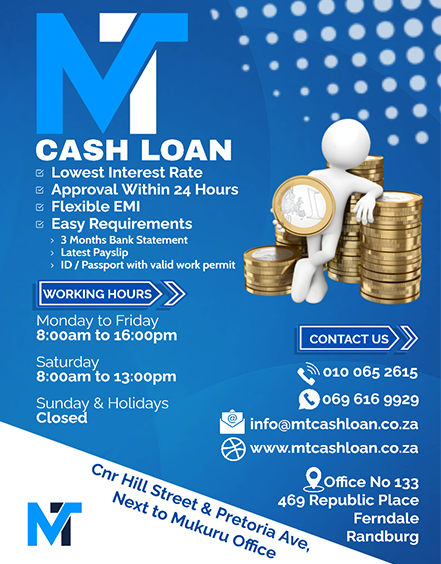
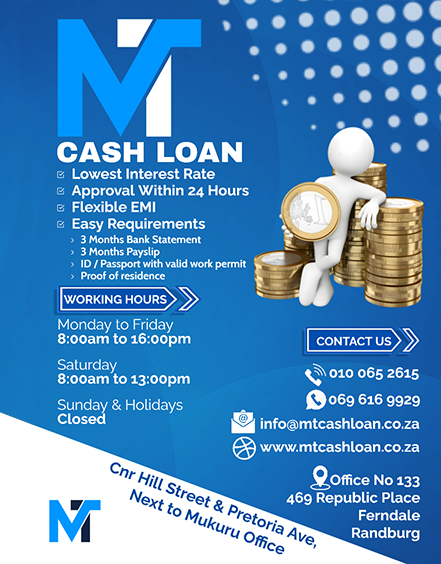
Web V4

diff --git a/index.html b/index.html
@@ -46,6 +46,9 @@
                             <div class="col-xl-2 col-lg-2 col-md-1">
                                 <div class="logo">
                                     <a href="index.html"><img src="assets/img/logo/logo.png" alt="mt logo" width="120"></a>
+									<div class="col-xl-9">
+										<font size="1" class="text-black-50">NCR-REGISTERED</font>
+									</div>
                                 </div>
                             </div>
                             <div class="col-xl-10 col-lg-10 col-md-10">
@@ -91,7 +94,7 @@
                             <p data-animation="fadeInLeft" data-delay=".2s">Achieve your financial goal</p>
                             <h1 data-animation="fadeInLeft" data-delay=".5s">Short-term personal loans and quick cash advances solutions</h1>
                             <!-- Hero Btn -->
-                            <a href="apply.html" class="btn hero-btn" data-animation="fadeInLeft" data-delay=".8s">Apply for Loan</a>
+                            <a href="contact.html" class="btn hero-btn" data-animation="fadeInLeft" data-delay=".8s">Get in touch</a>
                         </div>
                         <div class="hero__img">
                             <img src="assets/img/hero/hero_img.jpg" alt="">
@@ -105,7 +108,7 @@
                             <p data-animation="fadeInLeft" data-delay=".2s">Achieve your financial goal</p>
                             <h1 data-animation="fadeInLeft" data-delay=".5s">Small Business Loans For Daily Expenses.</h1>
                             <!-- Hero Btn -->
-                            <a href="apply.html" class="btn hero-btn" data-animation="fadeInLeft" data-delay=".8s">Apply for Loan</a>
+                            <a href="contact.html" class="btn hero-btn" data-animation="fadeInLeft" data-delay=".8s">Get in touch</a>
                         </div>
                         <div class="hero__img">
                             <img src="assets/img/hero/hero_img2.jpg" alt="">
@@ -172,7 +175,7 @@
                             </div>
                             <p>MT Cash Loan is a trusted and innovative financial services company specializing in short-term personal loans and quick cash advances. We provide fast, reliable, and transparent lending solutions to individuals facing urgent financial needs.</p>
                             <p>Our user-friendly application process make borrowing simple, secure, and hassle-free.</p>
-                            <a href="apply.html" class="btn">Apply for Loan</a>
+                            <a href="contact.html" class="btn">Get in touch</a>
                         </div>
                     </div>
                     <div class="col-lg-6 col-md-12">
@@ -203,7 +206,7 @@
                     </div>
                 </div>
                 <div class="row">
-                    <div class="col-lg-3 col-md-6 col-sm-6">
+                    <div class="col-lg-4 col-md-6 col-sm-6">
                         <div class="single-cat text-center mb-50">
                             <div class="cat-icon">
                                 <span class="flaticon-work"></span>
@@ -214,18 +217,8 @@
                             </div>
                         </div>
                     </div>
-                    <div class="col-lg-3 col-md-6 col-sm-6">
-                        <div class="single-cat text-center mb-50">
-                            <div class="cat-icon">
-                                <span class="flaticon-money"></span>
-                            </div>
-                            <div class="cat-cap">
-                                <h5><a href="services.html">Payday Advances</a></h5>
-                                <p>Short-term loans to bridge the gap until the next paycheck</p>
-                            </div>
-                        </div>
-                    </div>
-                    <div class="col-lg-3 col-md-6 col-sm-6">
+                    
+                    <div class="col-lg-4 col-md-6 col-sm-6">
                         <div class="single-cat text-center mb-50">
                             <div class="cat-icon">
                                 <span class="flaticon-loan-1"></span>
@@ -236,7 +229,7 @@
                             </div>
                         </div>
                     </div>
-                    <div class="col-lg-3 col-md-6 col-sm-6">
+                    <div class="col-lg-4 col-md-6 col-sm-6">
                         <div class="single-cat text-center mb-50">
                             <div class="cat-icon">
                                 <span class="flaticon-loan"></span>
@@ -260,7 +253,7 @@
                         <div class="support-location-img mb-50">
                             <img src="assets/img/gallery/single2.jpg" alt="">
                             <div class="support-img-cap">
-                                <span>Since 2022</span>
+                                <span>Since 2010</span>
                             </div>
                         </div>
                     </div>
@@ -306,31 +299,30 @@
                         <!-- Section Tittle -->
                         <div class="section-tittle section-tittle2 text-center mb-45">
                             <span>Apply Easy</span>
-                            <h2>Easy Application Process With Just Three Requirements </h2>
+                            <h2>Easy Application Process With Just Four Requirements </h2>
                         </div>
                     </div>
                 </div>
-                <div class="row justify-content-center">
-                    <div class="col-lg-9 col-xl-10">
-                        <!--Hero form -->
-                        <form action="#" class="search-box">
-                            <div class="input-form">
-                                <input type="text" placeholder="3 Months Bank Statement">
+                <div class="row">
+                        <div class="col-xl-3">
+                               <h6 class="text-light">3 Months Bank Statement </h6>
+                        </div>
+                            <div class="col-xl-3">
+                               <h6  class="text-light">ID/Passport with valid permit </h6>
                             </div>
-                            <div class="input-form">
-                                <input type="text" placeholder="ID/Passport with permit">
+                            <div class="col-xl-3">
+                                <h6  class="text-light">3 Months Payslip </h6>
                             </div>
-                            <div class="input-form">
-                                <input type="text" placeholder="Latest Payslip">
-                            </div>
-                            <div class="search-form">
-                                <a href="apply.html">Apply for Loan</a>
+							  <div class="col-xl-3">
+                                <h6  class="text-light">Proof of Residence </h6>
+						    </div>
+                            <div class="btn col-12">
+                                <a href="contact.html">Get in touch</a>
                             </div>	
-                        </form>	
                     </div>
                 </div>
             </div>
-        </div>
+        
         <!-- Application Area End -->
 
     </main>

diff --git a/about.html b/about.html
@@ -47,6 +47,9 @@
                             <div class="col-xl-2 col-lg-2 col-md-1">
                                 <div class="logo">
                                     <a href="index.html"><img src="assets/img/logo/logo.png" alt="mt logo" width="120"></a>
+									<div class="col-xl-9">
+										<font size="1" class="text-black-50">NCR-REGISTERED</font>
+									</div>
                                 </div>
                             </div>
                             <div class="col-xl-10 col-lg-10 col-md-10">
@@ -109,7 +112,7 @@
                             </div>
                             <p>MT Cash Loan is a trusted and innovative financial services company specializing in short-term personal loans and quick cash advances. We provide fast, reliable, and transparent lending solutions to individuals facing urgent financial needs.</p>
                             <p>Our user-friendly application process make borrowing simple, secure, and hassle-free.</p>
-                            <a href="apply.html" class="btn">Apply for Loan</a>
+                            <a href="contact.html" class="btn">Get in touch</a>
                         </div>
                     </div>
                     <div class="col-lg-6 col-md-12">
@@ -134,31 +137,29 @@
                         <!-- Section Tittle -->
                         <div class="section-tittle section-tittle2 text-center mb-45">
                             <span>Apply Easy</span>
-                            <h2>Easy Application Process With Just Three Requirements </h2>
+                            <h2>Easy Application Process With Just Four Requirements </h2>
                         </div>
                     </div>
                 </div>
-                <div class="row justify-content-center">
-                    <div class="col-lg-9 col-xl-10">
-                        <!--Hero form -->
-                        <form action="#" class="search-box">
-                            <div class="input-form">
-                                <input type="text" placeholder="3 Months Bank Statement">
+                <div class="row">
+                        <div class="col-xl-3">
+                               <h6 class="text-light">3 Months Bank Statement </h6>
+                        </div>
+                            <div class="col-xl-3">
+                               <h6  class="text-light">ID/Passport with valid permit </h6>
                             </div>
-                            <div class="input-form">
-                                <input type="text" placeholder="ID/Passport with permit">
+                            <div class="col-xl-3">
+                                <h6  class="text-light">3 Months Payslip </h6>
                             </div>
-                            <div class="input-form">
-                                <input type="text" placeholder="Latest Payslip">
-                            </div>
-                            <div class="search-form">
-                                <a href="apply.html">Apply for Loan</a>
+							  <div class="col-xl-3">
+                                <h6  class="text-light">Proof of Residence </h6>
+						    </div>
+                            <div class="btn col-12">
+                                <a href="contact.html">Get in touch</a>
                             </div>	
-                        </form>	
                     </div>
                 </div>
             </div>
-        </div>
         <!-- Application Area End -->
 
     </main>

diff --git a/services.html b/services.html
@@ -46,6 +46,9 @@
                             <div class="col-xl-2 col-lg-2 col-md-1">
                                 <div class="logo">
                                     <a href="index.html"><img src="assets/img/logo/logo.png" alt="mt logo" width="120"></a>
+									<div class="col-xl-9">
+										<font size="1" class="text-black-50">NCR-REGISTERED</font>
+									</div>
                                 </div>
                             </div>
                             <div class="col-xl-10 col-lg-10 col-md-10">
@@ -107,7 +110,7 @@
                     </div>
                 </div>
                 <div class="row">
-                    <div class="col-lg-3 col-md-6 col-sm-6">
+                    <div class="col-lg-4 col-md-6 col-sm-6">
                         <div class="single-cat text-center mb-50">
                             <div class="cat-icon">
                                 <span class="flaticon-work"></span>
@@ -118,18 +121,7 @@
                             </div>
                         </div>
                     </div>
-                    <div class="col-lg-3 col-md-6 col-sm-6">
-                        <div class="single-cat text-center mb-50">
-                            <div class="cat-icon">
-                                <span class="flaticon-money"></span>
-                            </div>
-                            <div class="cat-cap">
-                                <h5><a href="services.html">Payday Advances</a></h5>
-                                <p>Short-term loans to bridge the gap until the next paycheck</p>
-                            </div>
-                        </div>
-                    </div>
-                    <div class="col-lg-3 col-md-6 col-sm-6">
+                       <div class="col-lg-4 col-md-6 col-sm-6">
                         <div class="single-cat text-center mb-50">
                             <div class="cat-icon">
                                 <span class="flaticon-loan-1"></span>
@@ -140,7 +132,7 @@
                             </div>
                         </div>
                     </div>
-                    <div class="col-lg-3 col-md-6 col-sm-6">
+                    <div class="col-lg-4 col-md-6 col-sm-6">
                         <div class="single-cat text-center mb-50">
                             <div class="cat-icon">
                                 <span class="flaticon-loan"></span>

diff --git a/assets/css/style.css b/assets/css/style.css
@@ -4328,7 +4328,7 @@ hr {
 
 /* line 86, ../../../sponDon TI/Running Project/259.Finance_HTML/assets/scss/_application.scss */
 .application-area form.search-box .input-form {
-  width: 25%;
+  width: 18%;
   position: relative;
   overflow: hidden;
 }
@@ -4336,7 +4336,7 @@ hr {
 @media only screen and (min-width: 576px) and (max-width: 767px) {
   /* line 86, ../../../sponDon TI/Running Project/259.Finance_HTML/assets/scss/_application.scss */
   .application-area form.search-box .input-form {
-    width: 50%;
+    width: 30%;
   }
 }
 

diff --git a/apply.html b/apply.html
@@ -46,6 +46,9 @@
                             <div class="col-xl-2 col-lg-2 col-md-1">
                                 <div class="logo">
                                     <a href="index.html"><img src="assets/img/logo/logo.png" alt="mt logo" width="120"></a>
+									<div class="col-xl-9">
+										<font size="1" class="text-black-50">NCR-REGISTERED</font>
+									</div>
                                 </div>
                             </div>
                             <div class="col-xl-10 col-lg-10 col-md-10">

diff --git a/contact.html b/contact.html
@@ -46,6 +46,9 @@
                             <div class="col-xl-2 col-lg-2 col-md-1">
                                 <div class="logo">
                                     <a href="index.html"><img src="assets/img/logo/logo.png" alt="mt logo" width="120"></a>
+									<div class="col-xl-9">
+										<font size="1" class="text-black-50">NCR-REGISTERED</font>
+									</div>
                                 </div>
                             </div>
                             <div class="col-xl-10 col-lg-10 col-md-10">
